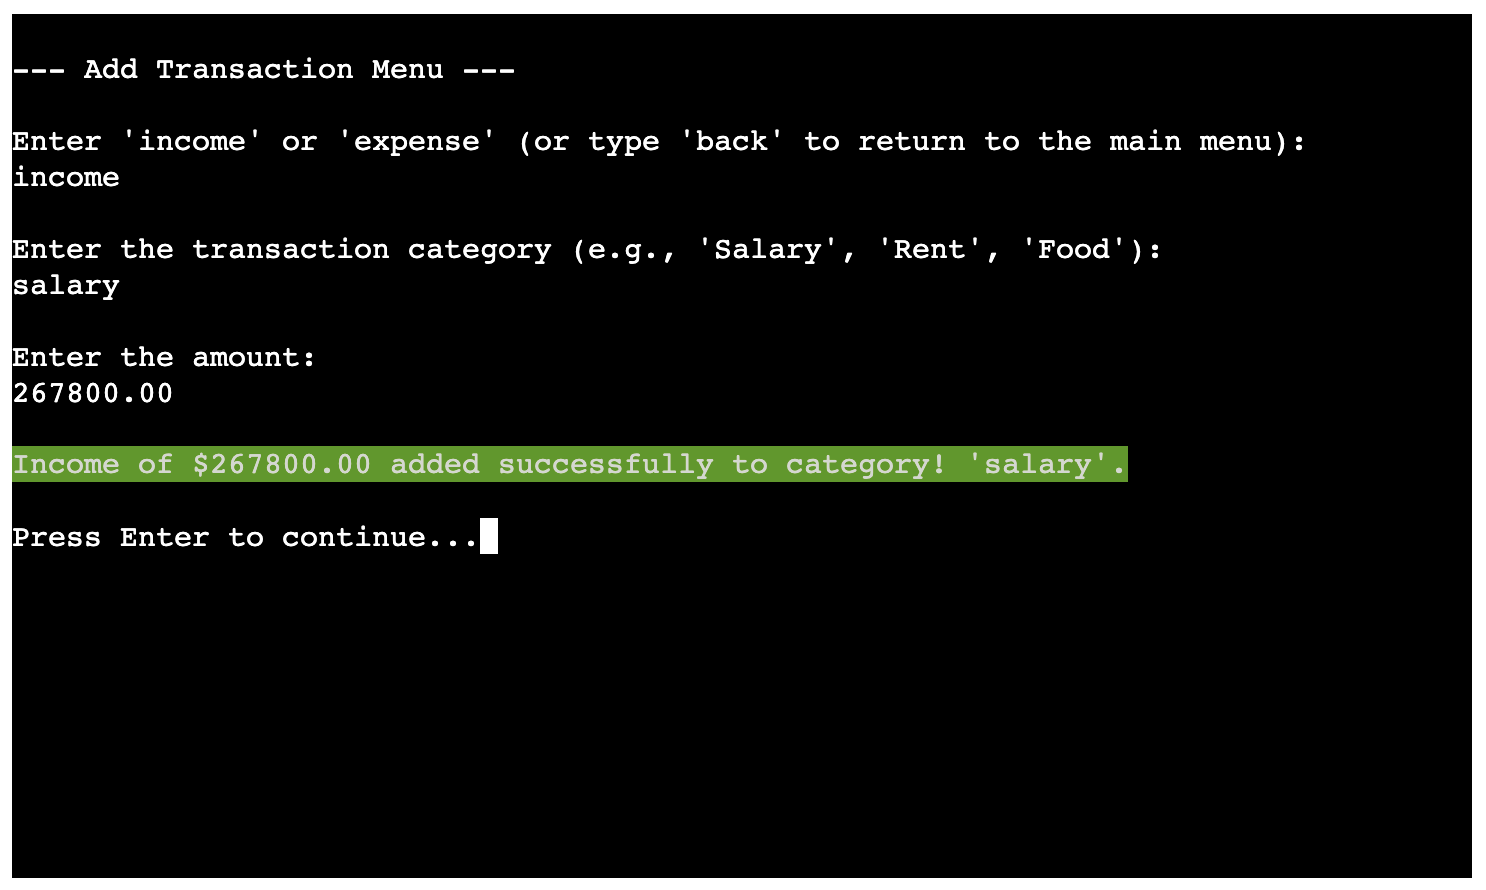
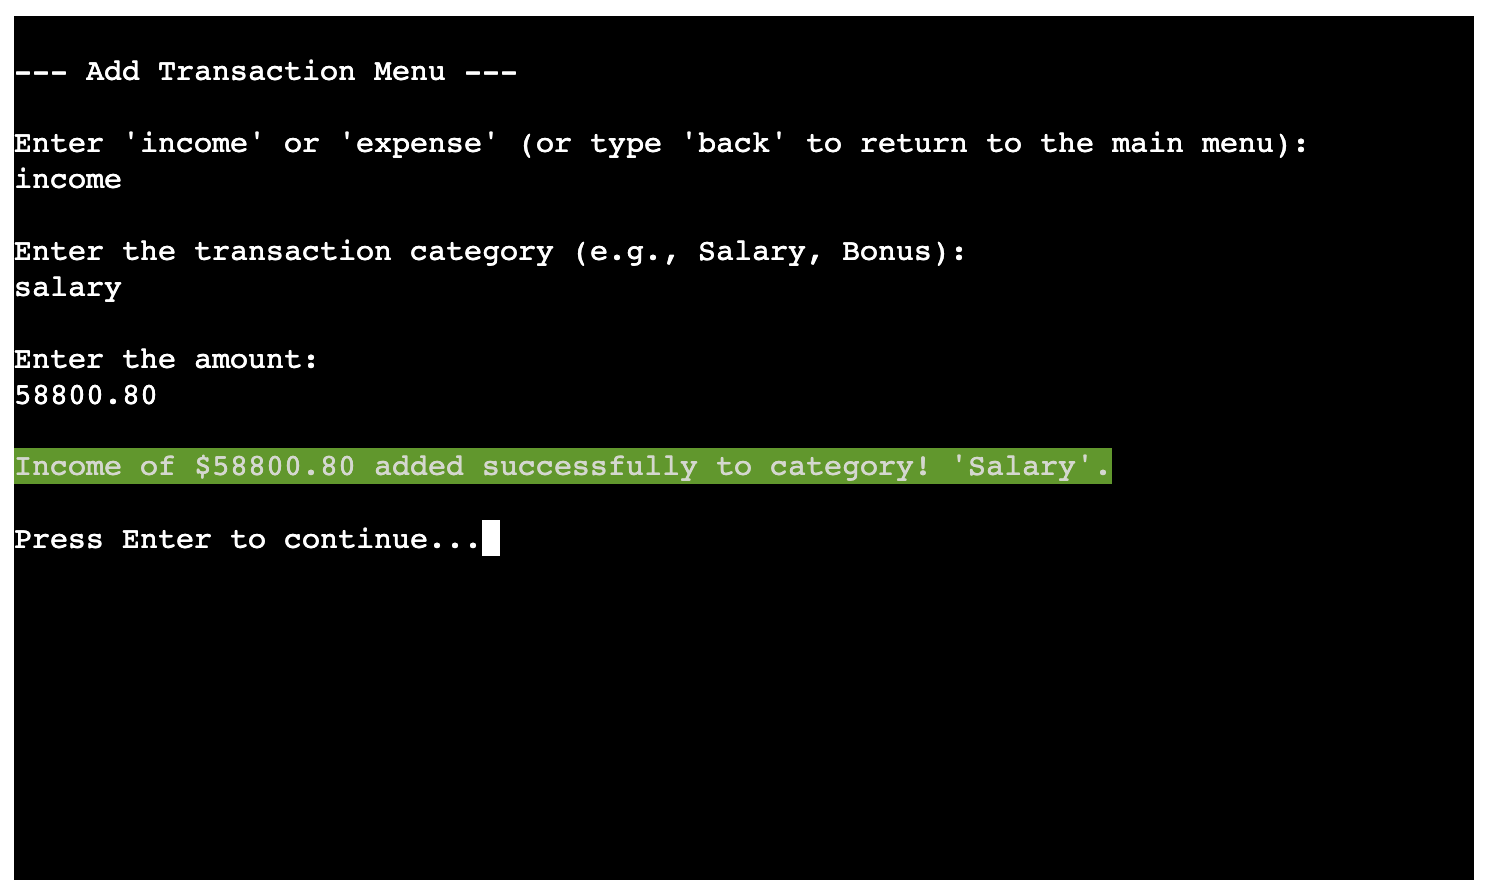
docs: Update User Choice section in README.

diff --git a/README.md b/README.md
@@ -86,7 +86,7 @@ Before I started building the app, I mapped out the basic structure of the flowc
 The App will perform the action which the User has selected:
 - Add income or expense (Option 1)
     - The App will ask the User to specify whether they want to add "income" or "expense".
-    - The User can then enter the category of the transaction '(e.g., "Salary", "Rent", "Food")'.
+    - The User can then enter the category of the transaction '(e.g., "Salary", "Bonus")'.
     - The User will be prompted to enter the amount of the transaction.
     - The App will confirm the details and add the transaction to their records.
 
@@ -96,7 +96,11 @@ The App will perform the action which the User has selected:
 
 
 - View transactions (Option 2)
-    - This option will display a list of all their recorded transactions, including the type (income or expense), category, amount, and confirm category successfully added.
+    - The App will ask the User to specify whether they want to add "income" or "expense".
+    - The User can then enter the category of the transaction '(e.g., "Rent", "Food", "Transport", "Utilities", "Miscellanous")'.
+    - The User will be prompted to enter the amount of the transaction.
+    - The App will confirm the details and add the transaction to their records.
+    - This option will display a list of all their recorded transactions, including the type (expense), category, amount, and confirm category successfully added.
 
 ![App Terminal](assets/images/02-transaction-menu-select-option02.png)
 
@@ -158,7 +162,7 @@ The App will perform the action which the User has selected:
 | ---------------- |------- | ------------- |
 | load_transactions() | The feature loads transactions to a JSON file | Uses try/except to handle file-related errors |
 | save_transactions(transactions) | The feature saves the current list of transactions to a JSON file | Ensures data persistence |
-| add_transaction(transactions) | The feature allows the User to add a new transaction (Salary for income or Rent for expenses) | Validates inputs; Promts for transaction type, category and amount; Adds timestamp to each transaction; Highlights errors for invalid inputs |
+| add_transaction(transactions) | The feature allows the User to add a new transaction ("Salary" for income or "Rent" for expenses) | Validates inputs; Promts for transaction type, category and amount; Adds timestamp to each transaction; Highlights errors for invalid inputs |
 | view_transactions(transactions) | The feature displays all transactions in tabular format | Uses tabulate to present data in a readable table format; Differentiates between income and expenses using  appropriate labels |
 | delete_transaction(transactions) | The feature deletes specific transactions based on User input | Allows selecting multiple transactions for deletion using indices; Validates User input for valid transaction numbers; Asks for confirmation before deletion; Handles invalid confirmation inputs and promts the User again |
 | main_menu() | The feature acts as the central menu to navigate the App | Displays options for managing transactions; Handles User input and calls the appropriate function; Loops until the User chooses to quit |
@@ -167,6 +171,7 @@ The App will perform the action which the User has selected:
 ## Testing
 - Testing was conducted regularly throughout the development process as well as at the end of the project to ensure functionality and identify any potential issues early on.
 - Manual input testing was carried out to simulate real-world usage of the application. This involved entering data manually into the terminal system to ensure that all inputs were handled correctly and that the User interface responded appropriately.
+- Testing was also done by friends and family to get feedback to improve User experience.
 - PEP8 Validator was used regulary to ensure that the code meets all necessary standards and specifications.
 - Bugs that were encountered during testing have been documented in the Bug section, detailing the nature of the issue and the solution.
 
